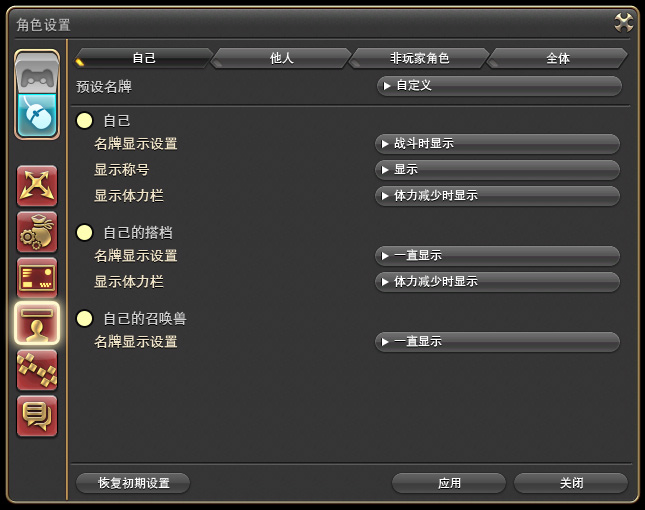
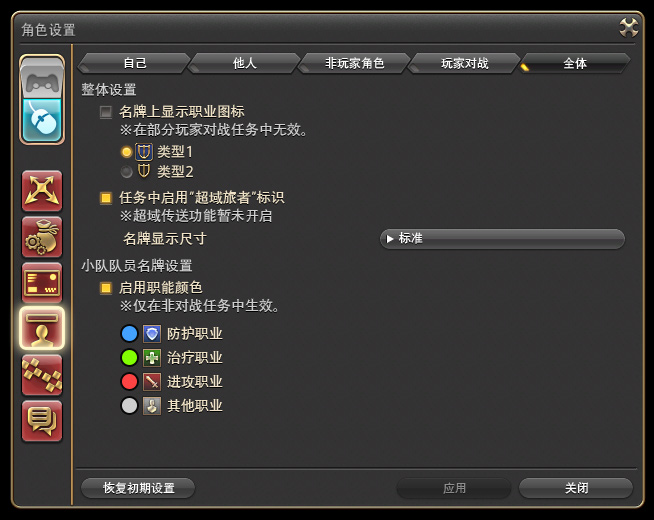
6_4 update

Changed region(s): [[0.0, 0.0, 1.0, 1.0]]

diff --git a/docs/advanced/currency.md b/docs/advanced/currency.md
@@ -26,7 +26,7 @@
 <tr><td><ul><li>兑换60级所用的武器、装备（最高品级270）</li> <li>兑换60级工匠制作装备所需材料、古武魂武材料</li> <li>用于兑换60级武器所需的票据和石板</li></ul><a href="https://ff14.huijiwiki.com/wiki/%E4%BA%9A%E6%8B%89%E6%88%88%E8%AF%97%E5%AD%A6%E7%A5%9E%E5%85%B8%E7%9F%B3">诗学可兑换物品详细列表</a></td><td>希丝梅娜<br><Pos name="田园郡" :x="5.8" :y="5.3" /><br><br>综合贸易店：<br><Pos name="伊修加德基础层" :x="10.5" :y="11.8" /></td></tr>
 <tr><td><ul><li>兑换70级所用的武器、装备（最高品级400）</li> <li>兑换70级工匠制作装备所需材料</li> <li>用于兑换70级武器所需的票据和石板</li></ul><a href="https://ff14.huijiwiki.com/wiki/%E4%BA%9A%E6%8B%89%E6%88%88%E8%AF%97%E5%AD%A6%E7%A5%9E%E5%85%B8%E7%9F%B3">诗学可兑换物品详细列表</a></td><td>艾恩娜<br><Pos name="神拳痕" :x="13.8" :y="11.6" /><br><br>综合贸易店：<br><Pos name="黄金港" :x="12.2" :y="10.8" /></td></tr>
 <tr><td><ul><li>兑换80级所用的武器、装备（最高490，可升级为500）</li><li>兑换80级工匠制作装备所需材料</li> <li>用于兑换80级武器所需的票据和石板</li></ul><a href="https://ff14.huijiwiki.com/wiki/%E4%BA%9A%E6%8B%89%E6%88%88%E5%A5%87%E8%B0%AD%E7%A5%9E%E5%85%B8%E7%9F%B3">诗学可兑换物品详细列表</a></td><td>艾马克<br><Pos name="游末邦" sub="树梢层" :x="10.2" :y="11.8" /><br><br>综合贸易店：<br><Pos name="水晶都" :x="10.1" :y="11.8" /></td></tr>
-<tr><td><img src="/images/icons/065086.png" class="no-zoom sm-icon"><br><strong>亚拉戈因果神典石</strong><br>俗称<strong>因果</strong><br><br>总上限2000点</td><td><ul><li>兑换90级所用的武器、装备（iLv590~iLv620）</li> </ul><a href="https://ff14.huijiwiki.com/wiki/%E4%BA%9A%E6%8B%89%E6%88%88%E5%9B%A0%E6%9E%9C%E7%A5%9E%E5%85%B8%E7%9F%B3">因果可兑换物品详细列表</a></td><td>琪罕蒂<br><Pos name="拉札罕" :x="10.8" :y="10.3" /></td><td>参加90级副本、挖宝、狩猎等战斗活动获得，81~90级以下的副本队伍中若有初次参加副本的队员，完成任务后全队每人可以获得额外的经典奖励（需要参与者本人使用90级职业并且开启因果神典石兑换）。</td></tr></table></div>
+<tr><td><img src="/images/icons/065094.png" class="no-zoom sm-icon"><br><strong>亚拉戈因果神典石</strong><br>俗称<strong>因果</strong><br><br>总上限2000点</td><td><ul><li>兑换90级所用的武器、装备（iLv590~iLv620）</li> </ul><a href="https://ff14.huijiwiki.com/wiki/%E4%BA%9A%E6%8B%89%E6%88%88%E5%9B%A0%E6%9E%9C%E7%A5%9E%E5%85%B8%E7%9F%B3">因果可兑换物品详细列表</a></td><td>琪罕蒂<br><Pos name="拉札罕" :x="10.8" :y="10.3" /></td><td>参加90级副本、挖宝、狩猎等战斗活动获得，81~90级以下的副本队伍中若有初次参加副本的队员，完成任务后全队每人可以获得额外的经典奖励（需要参与者本人使用90级职业并且开启因果神典石兑换）。</td></tr></table></div>
 
 已经过气（无法使用）的过往版本的神典石，可以在摩杜纳奥里亚娜<Pos name="摩杜纳" :x="22.7" :y="6.7" />兑换为诗学/因果神典石。
 
@@ -39,7 +39,7 @@
 :::
 
 ### 神曲神典石
-<div class="md-table"><table class="ui compact grey striped unstackable table" style="min-width: 38em;"><tr><th style="width: 10em">名称</th><th style="width: 20em">可用兑换</th><th style="width: 12em">兑换坐标</th><th style="width: 15em">点数获取方式</th></tr><tr><td><img src="/images/icons/065094.png" class="no-zoom sm-icon"><br><strong>亚拉戈神曲神典石</strong><br>俗称<strong>神曲</strong><br><br>周获取上限450<br>总上限2000点</td><td><ul><li>兑换90级所用的武器、装备（品级650，可升级到660）</li></ul><a href="https://ff14.huijiwiki.com/wiki/%E4%BA%9A%E6%8B%89%E6%88%88%E7%A5%9E%E6%9B%B2%E7%A5%9E%E5%85%B8%E7%9F%B3">神曲可兑换物品详细列表</a></td><td>琪罕蒂<br><Pos name="拉札罕" :x="10.8" :y="10.3" /></td><td>参加90级副本、挖宝、狩猎等战斗活动获得，参加90级的每日随机任务会奖励额外的神曲点数。</td></tr></table></div>
+<div class="md-table"><table class="ui compact grey striped unstackable table" style="min-width: 38em;"><tr><th style="width: 10em">名称</th><th style="width: 20em">可用兑换</th><th style="width: 12em">兑换坐标</th><th style="width: 15em">点数获取方式</th></tr><tr><td><img src="/images/icons/065103.png" class="no-zoom sm-icon"><br><strong>亚拉戈神曲神典石</strong><br>俗称<strong>神曲</strong><br><br>周获取上限450<br>总上限2000点</td><td><ul><li>兑换90级所用的武器、装备（品级650，可升级到660）</li></ul><a href="https://ff14.huijiwiki.com/wiki/%E4%BA%9A%E6%8B%89%E6%88%88%E7%A5%9E%E6%9B%B2%E7%A5%9E%E5%85%B8%E7%9F%B3">神曲可兑换物品详细列表</a></td><td>琪罕蒂<br><Pos name="拉札罕" :x="10.8" :y="10.3" /></td><td>参加90级副本、挖宝、狩猎等战斗活动获得，参加90级的每日随机任务会奖励额外的神曲点数。</td></tr></table></div>
 
 通过副本搜索器参加任务时，搜索器右边的任务详情“报酬”一栏会注明完成该副本所赠与的亚拉戈神典石数量。随机任务的报酬则是在副本原本赠与的点数基础之上，再额外赠与的报酬。
 

diff --git a/docs/_includes/basic/restriction.md b/docs/_includes/basic/restriction.md
@@ -1,27 +1,26 @@
-<!--
 #### 零式
 
-当前版本零式副本有过本CD限制，即玩家需要**按顺序**挑战P5s → P6s → P7s → P8s才能拿全奖励，跳层将无法拿到被跳过层的奖励。拿过奖励或跳过层的无CD，还有拿奖励资格的层被称为有CD。
+当前版本零式副本有过本CD限制，即玩家需要**按顺序**挑战P9s → P10s → P11s → P12s才能拿全奖励，跳层将无法拿到被跳过层的奖励。拿过奖励或跳过层的无CD，还有拿奖励资格的层被称为有CD。
 
 ::: collapse 举例说明
-- ==光之小明==：本周通过P5s（零式万魔殿 炼狱篇1层）之后，挑战P6s并通过。
-小明本周P5s、P6s无CD，P7s、P8s有CD。
-- ==暗之小黑==：本周未通过P5s、P6s，直接前往P7s挑战，但未通过。
-小黑本周P5s、P6s无CD（俗称黑CD），P7s、P8s有CD。
+- ==光之小明==：本周通过P9s（零式万魔殿 炼狱篇1层）之后，挑战P10s并通过。
+小明本周P9s、P10s无CD，P11s、P12s有CD。
+- ==暗之小黑==：本周未通过P9s、P10s，直接前往P11s挑战，但未通过。
+小黑本周P9s、P10s无CD（俗称黑CD），P11s、P12s有CD。
 :::
 
 每周CD从周二<i class="xiv local-time-chs"></i>16:00开始，到下周二<i class="xiv local-time-chs"></i>15:59结束。计算CD时以进本时间为准（**只有零式副本的周CD按此规则计算，其他CD按最终BOSS击杀时间计算**）。
 
-- 过本时若8人均有CD，则BOSS掉落2个宝箱。
-- 若5~7人有CD，则BOSS随机掉落2个宝箱中的1个（比如P4s宝箱1会掉落1把武器和1个衣服箱子，宝箱2会掉落1个武器箱子+坐骑+宠物；因此P4s 1箱队若出武器箱子，必没有衣服）。
-- 若0~4人有CD，则不会掉落宝箱。
-- 无CD的玩家不能参与宝箱ROLL点。 -->
+- 过本时若8人均有CD，则BOSS掉落全部奖励。
+- 若5~7人有CD，则BOSS随机掉落部分奖励。
+- 若0~4人有CD，则不会出现宝箱。
+- 无CD的玩家不能参与宝箱ROLL点。 
 
 #### 团队副本
 
 当前版本团队副本（普通万魔殿）有奖励获取限制。其中：
-<!--* 通关普通万魔殿炼狱篇4层之后自动获得的<item name="腐朽的炼净长剑" />，每周仅能获得1次。-->
-* 喜悦神域欧芙洛绪涅中，每周仅允许获得1件装备（如果因背包已满等情况，获取到的装备并未进入包中，仍会被视为已获取）；通关后自动获得的<item name="喜悦古钱" />，每周仅能获得1次。
+* 通关普通万魔殿天狱篇4层之后自动获得的<item name="腐朽的荒天长剑" />，每周仅能获得1次。
+<!--* 喜悦神域欧芙洛绪涅中，每周仅允许获得1件装备（如果因背包已满等情况，获取到的装备并未进入包中，仍会被视为已获取）；通关后自动获得的<item name="喜悦古钱" />，每周仅能获得1次。-->
 
 ::: segment blue
  

diff --git a/docs/topic/raid.md b/docs/topic/raid.md
@@ -18,8 +18,9 @@
 | 极黑、极爹 | 佐迪亚克暝暗歼灭战 | 
 | 极白、极妈 | 海德林晖光歼灭战 | 
 | 极小鸟 | 终极之战 | 
-| 风天王、风王|巴尔巴莉希娅歼殛战|
+| 风天王、风王 | 巴尔巴莉希娅歼殛战|
 | 火天王 | 卢比坎特歼殛战 |
+| - | 高贝扎歼殛战 |
 :::
 
 ### 零式Raid：万魔殿
@@ -37,9 +38,9 @@
 
 零式万魔殿在完成普通万魔殿剧情任务之后，于尼姆吉吉<Pos name="迷津" :x="8.4" :y="27.4" />对话开放。
 
-万魔殿目前有边境之狱、炼净之狱，零式边狱（P1s~P4s）掉落600装备、零式炼狱（P4s~P8s）掉落630装备。
+万魔殿目前分为边境之狱、炼净之狱、荒天之狱，零式边狱（P1s~P4s）掉落600装备、零式炼狱（P4s~P8s）掉落630装备、零式天狱（P9s~P12s）掉落660装备。
 
-万魔殿英雄榜（以当时的服务器和名字为记录）：[边境之狱](https://actff1.web.sdo.com/20180525HeroList/index220401.html)，[炼净之狱](https://actff1.web.sdo.com/20180525HeroList/index221229.html)。
+万魔殿英雄榜（以当时的服务器和名字为记录）：[边境之狱](https://actff1.web.sdo.com/20180525HeroList/index220401.html)，[炼净之狱](https://actff1.web.sdo.com/20180525HeroList/index221229.html)，[荒天之狱](https://actff1.web.sdo.com/20180525HeroList/index230926.html)。
 
 [万魔殿攻略](/duty/)。
 
@@ -89,7 +90,7 @@
 
 ;;;.guide .cols2
 ;;;.guide .col
-（图片占位）
+<img src="./raid.assets/top.jpg" style="width: 350px;"/>
 
 ;;;
 
@@ -98,6 +99,7 @@
 6.0 的第二个绝境战是欧米茄绝境验证战（俗称绝欧），需要通关 P8s（零式万魔殿 炼净之狱4）之后才能在旧萨雷安异国的诗人处开启，装等限制635。
 
 异国的诗人提出疑问。如果欧米茄作为兵器不断地获得力量并且一直战斗下去的话，它真的能够找到渴求的答案吗？
+
 既然如此，不妨在心中描绘一番，做一次验证。寻求那或许存在的可能性以及随之而来的另一种结局。毕竟我们拥有可以将其化为可能的未知力量。
 
 [绝欧攻略](/duty/)。

diff --git a/docs/topic/battle.md b/docs/topic/battle.md
@@ -10,6 +10,7 @@
 ## 挑战副本类型
 
 * **极蛮神**：每个版本的先头兵，通常提供性能优秀的武器，帮助玩家开荒更难的副本。另外还会掉落七彩坐骑，集齐同版本七彩坐骑之后，还可以召唤~~神龙~~合体坐骑。
+* **幻巧战**：把以前版本的极神战斗，数值同步到当前版本，以现在的条件挑战过去的极神。每周最多可获得2次挑战奖励，具体介绍参见[宗长的幻巧拼图](/topic/daily.md#宗长的幻巧拼图（每周）)。
 * **零式Raid**：偶数版本的重头戏。FF14是每2个小版本更新一次装备上限，因此打当前版本对应的零式Raid，是获得当前版本[毕业装备](/basic/bis.md)的主要手段之一。
   * **普通Raid**：零式Raid的前置，难度相对比较低，是比较轻松获得初期装备的方式。
 * **24人副本**：奇数版本的24人大型迷宫，有着优秀的故事剧情，同时提供中间过渡装备，供没有挑战零式的玩家进行过渡。
@@ -38,9 +39,9 @@
 
 零式万魔殿在完成普通万魔殿剧情任务之后，于尼姆吉吉<Pos name="迷津" :x="8.4" :y="27.4" />对话开放。
 
-万魔殿目前有边境之狱、炼净之狱，零式边狱（P1s~P4s）掉落600装备、零式炼狱（P4s~P8s）掉落630装备。
+万魔殿目前有边境之狱、炼净之狱，零式边狱（P1s~P4s）掉落600装备、零式炼狱（P4s~P8s）掉落630装备、零式天狱（P9s~P12s）掉落660装备。。
 
-万魔殿英雄榜（以当时的服务器和名字为记录）：[边境之狱](https://actff1.web.sdo.com/20180525HeroList/index220401.html)，[炼净之狱](https://actff1.web.sdo.com/20180525HeroList/index221229.html)
+万魔殿英雄榜（以当时的服务器和名字为记录）：[边境之狱](https://actff1.web.sdo.com/20180525HeroList/index220401.html)，[炼净之狱](https://actff1.web.sdo.com/20180525HeroList/index221229.html)，[荒天之狱](https://actff1.web.sdo.com/20180525HeroList/index230926.html)。
 
 [万魔殿攻略](/duty/)。
 

diff --git a/docs/basic/dungeon.md b/docs/basic/dungeon.md
@@ -13,6 +13,26 @@
 
 默认小队频道的聊天颜色是亮蓝色，如果看到聊天窗口中有亮蓝色的文字，那就是队友在说话了。如果发现队友在跟你说话，你又顾不过来打字，可以在不需要打怪的间隙先打个`==`（等于号，意思是等等），然后停下来慢慢打字。（要注意自己的发言频道，如果不是小队频道，那队友是看不到你说话的）
 
+;;;.guide .cols2
+;;;.guide .col
+<img src="./config.assets/cc6-2.jpg" width="300px" />
+
+消息窗口设置 - 人名显示设置
+;;;
+
+;;;.guide .col .grow
+
+在输入框下方点击齿轮图标，然后点击==人名显示设置==，可以调整发言者的相关信息设置：
+
+* 通用：显示/隐藏其他服务器玩家的服务器名
+* 小队/团队：当玩家在小队/团队频道发言时，职业/职能的显示规则。
+  * 可以在下方预览窗口中查看显示效果，推荐显示职业图标+整个人名改变颜色。
+
+修改人名显示设置后，就可以更轻松地区分发言者的职业了！
+
+;;;
+;;;
+
 FF14的副本机制较为复杂， 不乏有机制杀的现象。如果是初次进本不熟悉攻略，不妨刚进本就在小队频道打字说一句“初见，请多关照”，心地善良的老司机通常会愿意一句话讲解。交流是团队合作非常重要的一部分，只要好好交流，很多问题都可以迎刃而解。
 
 ### 遇到很好的队友

diff --git a/docs/topic/ocean-fishing.md b/docs/topic/ocean-fishing.md
@@ -179,14 +179,15 @@
 ;;;
 ;;;
 
-- 在一次海钓中获得5000分，奖励成就与宠物<item name="鲨鱼指挥官" />（宜家小鲨鱼）
-- 在一次海钓中获得10000分，奖励成就与坐骑<item name="弓鲛角笛" />（大鲨鱼）
-- 在一次海钓中获得16000分，奖励成就与称号==游钓大洋==
-- 在一次海钓中获得20000分，奖励成就与称号==海王==
+- 在出海垂钓（近海）中获得5000分，奖励成就与宠物<item name="鲨鱼指挥官" />（宜家小鲨鱼）
+- 在出海垂钓（近海）中获得10000分，奖励成就与坐骑<item name="弓鲛角笛" />（大鲨鱼）
+- 在出海垂钓（近海）中获得16000分，奖励成就与称号==游钓大洋==
+- 在出海垂钓（近海）中获得20000分，奖励成就与称号==海王==
 - 海钓累计获得100万分，奖励成就与宠物<item name="莫莫拉·莫拉！！！" />
 - 海钓累计获得300万分，奖励成就与称号==世界级钓手==
 - 在海钓中合计见到3次海鸥群，奖励成就与宠物<item name="海小鸥" />
 - 在海钓中合计见到3次海豚群，奖励成就与宠物<item name="聪慧小海豚" />
+- 在远洋垂钓中获得10,000以上渔分，奖励成就与宠物<item name="沧小龙" />
 
 还有一些累计得分的成就，没有特殊奖励。
 

diff --git a/docs/basic/config.md b/docs/basic/config.md
@@ -247,6 +247,8 @@
 
 上方可切换分类，包括自己/他人/NPC或物体/PVP。
 
+在==全体==选项卡中，可以为名牌前加上职业图标、修改名牌尺寸、改变小队队员名牌颜色，可以更方便地在战斗中快速区分队友了！
+
 ;;;
 ;;;
 
@@ -286,6 +288,24 @@
 * 消息过滤设置：<i class="xiv mouse-left-button"></i>可以设置消息栏显示的信息类型；<i class="xiv mouse-right-button"></i>右键可以修改消息栏标题，或删除不用的消息栏。
 
 更详细的设置和用法可以查看[玩家交流](/basic/communication.md)。
+
+;;;
+;;;
+
+;;;.guide .cols2
+;;;.guide .col
+<img src="./config.assets/cc6-2.jpg" width="300px" />
+
+消息窗口设置 - 人名显示设置
+;;;
+
+;;;.guide .col .grow
+
+左下角消息窗口中，发言者的相关信息设置：
+
+* 通用：显示/隐藏其他服务器玩家的服务器名
+* 小队/团队：当玩家在小队/团队频道发言时，职业/职能的显示规则。
+  * 可以在下方预览窗口中查看显示效果，按需要选择即可。推荐显示职业图标+整个人名改变颜色。
 
 ;;;
 ;;;

diff --git a/docs/duty/18.md b/docs/duty/18.md
@@ -4,7 +4,7 @@
 
 ## 进场 ~ BOSS 1
 
-进门小怪可以不打，直接进电梯下楼。下楼之后虽然也可以一波，但是前提是T奶手法都非常好，并且DPS输出很高。路上会有挡路的石头，一般来说可以在第一块石头和第三块石头前停下，把小怪都击杀就可以了。
+下楼之后可以一波，但是前提是T奶手法都非常好，并且DPS输出很高。路上会有挡路的石头，一般来说可以在第一块石头和第三块石头前停下，把小怪都击杀就可以了。
 
 ### BOSS 1 百臂主脑巨人
 如果团队足够强，可以所有人在门口直接击杀BOSS。正常处理为地面出现火焰之后，<Role name="tank" />T把**百臂主脑巨人**带走到没有火的地方。场地另一头刷新**爆弹怪**需要<Role name="dps" />DPS第一时间击杀，其他小怪可以稍后清理，一定时间或爆弹怪踩火之后会立刻爆炸，对全团造成大量伤害。

diff --git a/docs/job/scholar.md b/docs/job/scholar.md
@@ -30,6 +30,15 @@ jobName: 学者
 
 需要注意的是，秘术师是DPS职业，而学者是治疗职业，在玩家正式成为学者之前，使用副本搜索器时，只能以DPS只能参加任务。
 
+### 学者特化指令
+
+完成学者30级职业任务<quest type="plus" name="被遗忘的学问" />，可以回秘术师行会接任务<quest type="plus" name="小仙女变形" />，完成这个任务之后，就可以通过文本指令`/召唤兽投影`改变小仙女的外形了，例如：
+
+* 输入`/召唤兽投影 朝日小仙女 夕月小仙女`是把朝日小仙女变为夕月小仙女。
+* 输入`/召唤兽投影 朝日小仙女 宝石兽`是把朝日小仙女变为宝石兽。
+* 查询完整参数可输入`/? 召唤兽投影`查询。
+* 朝日小仙女无法投影为迦楼罗之灵、泰坦之灵、伊弗利特之灵。
+
 ## 练级手法
 
 > * [如何设置技能/快捷栏](/ui/hotbar.md)

diff --git a/docs/job/samurai.md b/docs/job/samurai.md
@@ -54,7 +54,7 @@
 
 15级习得的<Action name="燕飞" />和之后习得的<Action name="必杀剑·晓天" />、<Action name="必杀剑·夜天" />共同组成武士无法近身目标时所需要使用的技能，但是这三个技能无论怎么使用，都是亏的，原则上我们不应该在技能循环里用到它们，除非你会有超过1个GCD的时间实在摸不到BOSS。
 
-使用了<Action name="心眼" />(6)之后，会获得3s的<Status :id="1232" name="心眼" />buff，在这3s内你受到的伤害可以减轻10%，成功减伤之后还可以获得10剑气。
+使用了<Action name="心眼" />(6)之后，会获得4s的<Status :id="1232" name="心眼" />buff，在这4s内你受到的伤害可以减轻10%，成功减伤之后还可以获得10剑气。
 
 60级的<Action name="默想" />(60)主要可以用在转场动画中，通过~~发呆~~默想的方式获得剑气和剑压。
 

diff --git a/docs/job/summoner.md b/docs/job/summoner.md
@@ -24,6 +24,7 @@ jobName: 召唤师
 * 输入`/召唤兽投影 宝石兽 红宝石兽`是把宝石兽变为红宝石兽。
 * 输入`/召唤兽投影 宝石兽 泰坦之灵`是把宝石兽变为泰坦之灵。
 * 查询完整参数可输入`/? 召唤兽投影`查询。
+* 召唤兽无法投影为朝日小仙女或夕月小仙女。
 
 另外可以输入`/召唤兽尺寸 全部 小`缩小全部召唤兽的尺寸，每个人的召唤兽尺寸都是个人设置，如果有人跟你说你的召唤兽太大了，记得告诉他这个指令。 其他信息请输入`/? 召唤兽尺寸`查询。
 
